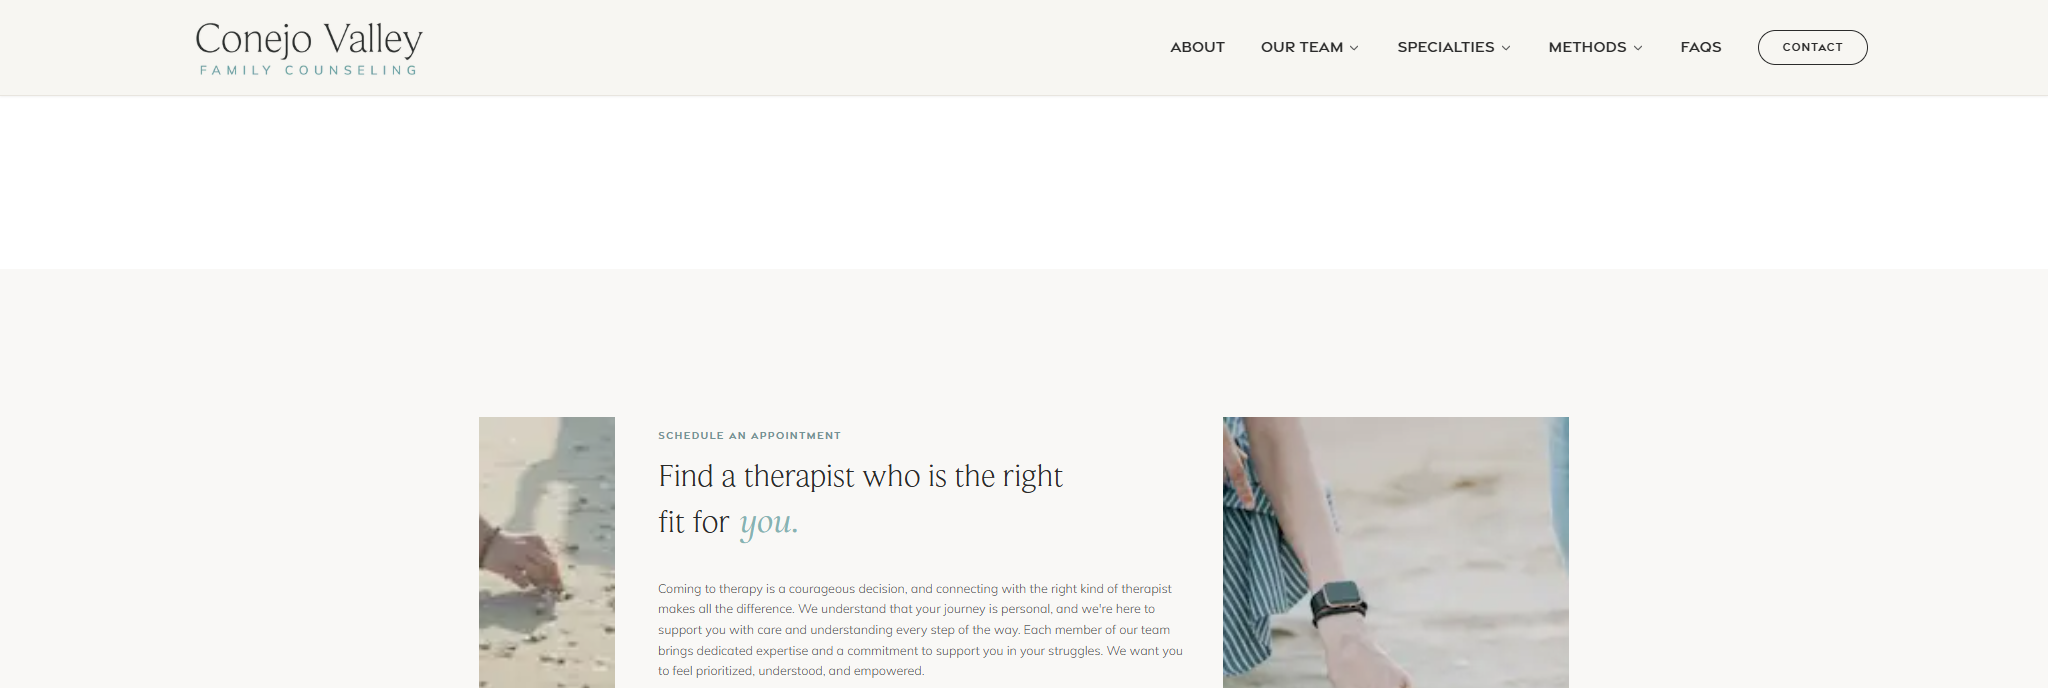
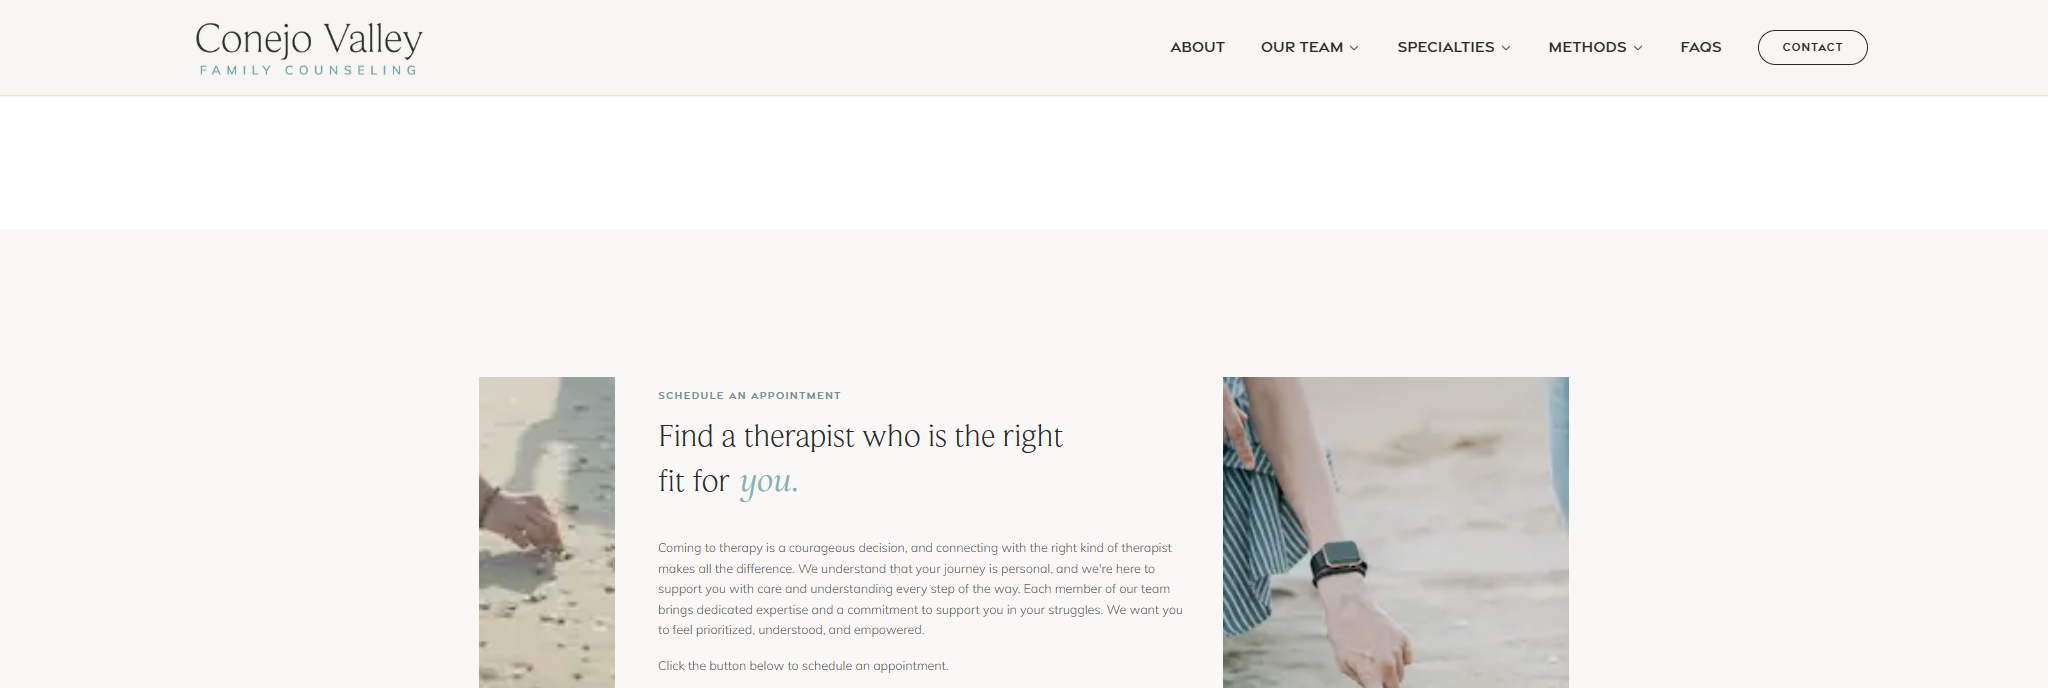
Update appointment section layout

Changed region(s): [[0.2188, 0.5494, 0.7812, 1.0], [0.75, 0.7326, 0.7812, 0.8241], [0.2188, 0.9767, 0.25, 1.0]]

diff --git a/extract.js b/extract.js
@@ -1,0 +1,30 @@
+const fs = require('fs');
+const html = fs.readFileSync('C:\\Users\\jhara\\.gemini\\antigravity\\brain\\7572f6da-f638-4de1-b2f2-1c82dbfc0f1f\\.system_generated\\steps\\2428\\content.md', 'utf8');
+
+// The ChatGPT response usually has elements with data-message-author-role="user" and "assistant"
+const matches = html.match(/<div[^>]*data-message-author-role="([^"]+)"[^>]*>([\s\S]*?)<\/div>/g);
+
+if (matches) {
+    matches.forEach(m => {
+        // Just strip html tags
+        const stripped = m.replace(/<[^>]+>/g, ' ').replace(/\s+/g, ' ');
+        console.log("---- MESSAGE ----");
+        console.log(stripped.substring(0, 1000));
+    });
+} else {
+    // If not found, let's just use regex to strip all HTML tags from the document and find the relevant text.
+    let text = html.replace(/<style[^>]*>[\s\S]*?<\/style>/gi, '')
+                   .replace(/<script[^>]*>[\s\S]*?<\/script>/gi, '')
+                   .replace(/<[^>]+>/g, '\n')
+                   .replace(/\n\s*\n/g, '\n');
+    
+    // Print lines around "Find a therapist" or "Antigravity Appointment Design Brief"
+    const lines = text.split('\n');
+    let output = [];
+    for (let i = 0; i < lines.length; i++) {
+        if (lines[i].trim().length > 30) {
+            output.push(lines[i].trim());
+        }
+    }
+    console.log(output.join('\n').substring(0, 5000));
+}

diff --git a/extract.py b/extract.py
@@ -1,0 +1,19 @@
+import json
+import re
+from bs4 import BeautifulSoup
+
+with open(r'C:\Users\jhara\.gemini\antigravity\brain\7572f6da-f638-4de1-b2f2-1c82dbfc0f1f\.system_generated\steps\2428\content.md', 'r', encoding='utf-8') as f:
+    html = f.read()
+
+soup = BeautifulSoup(html, 'html.parser')
+
+script = soup.find('script', {'id': '__NEXT_DATA__'})
+if script:
+    data = json.loads(script.string)
+    print("Found NEXT_DATA")
+else:
+    # Just extract and print visible text
+    texts = soup.get_text(separator='\n', strip=True)
+    # We want to find the user/assistant messages.
+    # We can try to regex for them, or just print everything.
+    print(texts[:5000])
